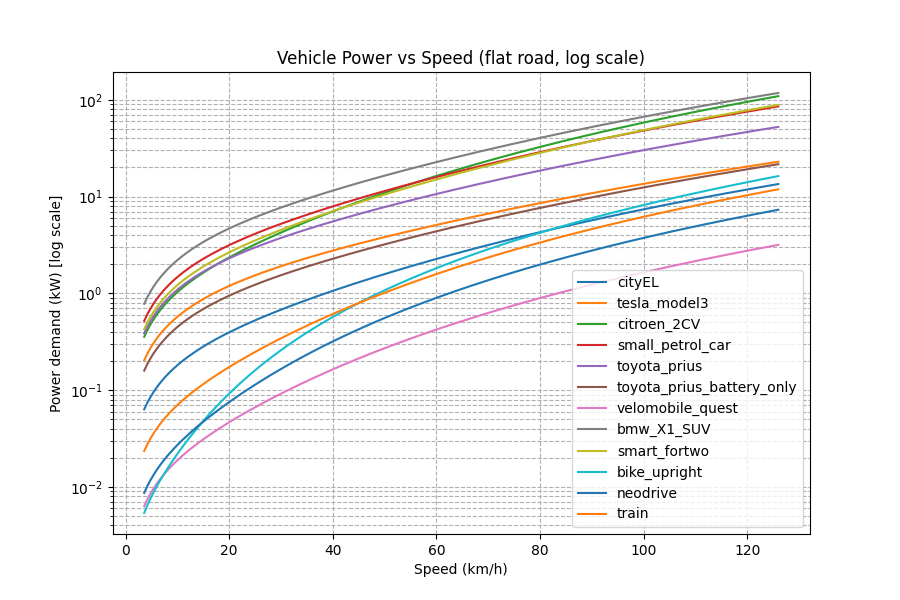
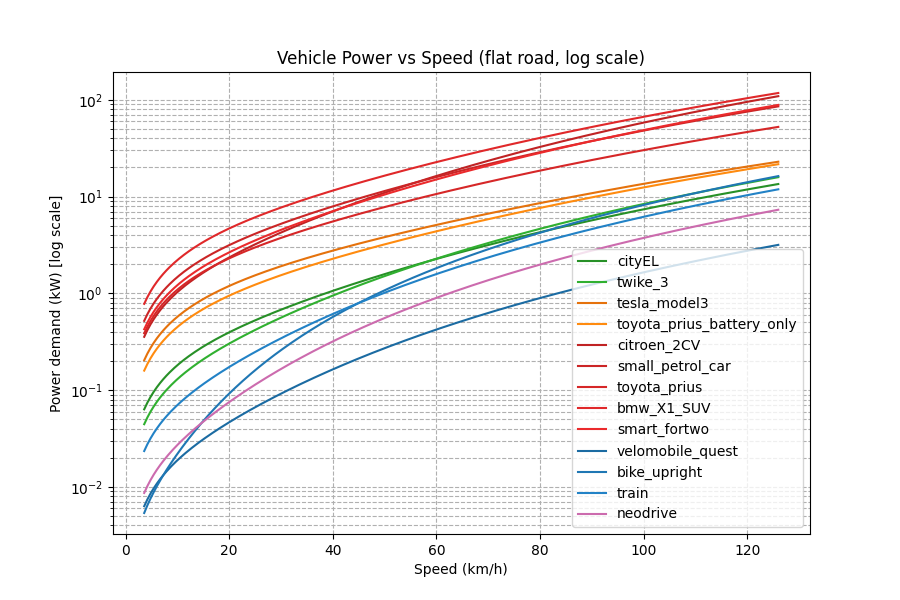
added color codding by group on graphs

diff --git a/plotEfficiency.py b/plotEfficiency.py
@@ -8,36 +8,61 @@ g = 9.81      # earth gravity
 # Speed range
 v = np.linspace(1, 35, 400)  # m/s (avoid 0 to prevent division by zero)
 
-# Vehicle parameters
+# Vehicles dictionary with base group colors
 vehicles = {
-    "cityEL": {"Cd": 0.30, "A": 1.0, "Crr": 0.015, "m": 300, "eta": 0.7},
-    "tesla_model3": {"Cd": 0.23, "A": 2.22, "Crr": 0.010, "m": 1760, "eta": 0.85},
-    "citroen_2CV": {"Cd": 0.51, "A": 1.8, "Crr": 0.015, "m": 600, "eta": 0.25},
-    "small_petrol_car": {"Cd": 0.32, "A": 2.0, "Crr": 0.012, "m": 1100, "eta": 0.25},
-    "toyota_prius": {"Cd": 0.24, "A": 2.16, "Crr": 0.010, "m": 1375, "eta": 0.35},
-    "toyota_prius_battery_only": {"Cd": 0.24, "A": 2.16, "Crr": 0.010, "m": 1375, "eta": 0.85},
-    "velomobile_quest": {"Cd": 0.20, "A": 0.55, "Crr": 0.005, "m": 125, "eta": 0.98},
-    "bmw_X1_SUV": {"Cd": 0.33, "A": 2.6, "Crr": 0.012, "m": 1650, "eta": 0.25},
-    "smart_fortwo": {"Cd": 0.35, "A": 2.0, "Crr": 0.012, "m": 900, "eta": 0.25},
-    "bike_upright": {"Cd": 1.00, "A": 0.6, "Crr": 0.005, "m": 100, "eta": 0.98},
-    "neodrive": {"Cd": 0.2, "A": 1, "Crr": 0.005, "m": 130, "eta": 0.75},
-    "train": {"Cd": 1, "A": 0.4, "Crr": 0.0003, "m": 7500, "eta": 0.95}
+    "cityEL": {"Cd": 0.30, "A": 1.0, "Crr": 0.015, "m": 300, "eta": 0.7, "base_color":"#2ca02c"},  # green
+    "twike_3": {"Cd": 0.325, "A": 1.34, "Crr": 0.012, "m": 300, "eta": 0.80, "base_color":"#2ca02c"},
+    "tesla_model3": {"Cd": 0.23, "A": 2.22, "Crr": 0.010, "m": 1760, "eta": 0.85, "base_color":"#ff7f0e"},  # orange
+    "toyota_prius_battery_only": {"Cd": 0.24, "A": 2.16, "Crr": 0.010, "m": 1375, "eta": 0.85, "base_color":"#ff7f0e"},
+    "citroen_2CV": {"Cd": 0.51, "A": 1.8, "Crr": 0.015, "m": 600, "eta": 0.25, "base_color":"#d62728"},  # red
+    "small_petrol_car": {"Cd": 0.32, "A": 2.0, "Crr": 0.012, "m": 1100, "eta": 0.25, "base_color":"#d62728"},
+    "toyota_prius": {"Cd": 0.24, "A": 2.16, "Crr": 0.010, "m": 1375, "eta": 0.35, "base_color":"#d62728"},
+    "bmw_X1_SUV": {"Cd": 0.33, "A": 2.6, "Crr": 0.012, "m": 1650, "eta": 0.25, "base_color":"#d62728"},
+    "smart_fortwo": {"Cd": 0.35, "A": 2.0, "Crr": 0.012, "m": 900, "eta": 0.25, "base_color":"#d62728"},
+    "velomobile_quest": {"Cd": 0.20, "A": 0.55, "Crr": 0.005, "m": 125, "eta": 0.98, "base_color":"#1f77b4"},  # blue
+    "bike_upright": {"Cd": 1.00, "A": 0.6, "Crr": 0.005, "m": 100, "eta": 0.98, "base_color":"#1f77b4"},
+    "train": {"Cd": 1, "A": 0.4, "Crr": 0.0003, "m": 7500, "eta": 0.95, "base_color":"#1f77b4"},
+    "neodrive": {"Cd": 0.2, "A": 1, "Crr": 0.005, "m": 130, "eta": 0.75, "base_color":"#e377c2"}   # pink
 }
+
+def adjust_color(hex_color, factor=1.0):
+    """Slightly adjust brightness of a hex color"""
+    hex_color = hex_color.lstrip('#')
+    rgb = [int(hex_color[i:i+2], 16) for i in (0, 2, 4)]
+    rgb = [max(0, min(255, int(c * factor))) for c in rgb]
+    return '#%02x%02x%02x' % tuple(rgb)
+
+def assign_unique_colors(vehicles):
+    """Assign unique shades for vehicles sharing the same base color"""
+    # group vehicles by base_color
+    base_groups = {}
+    for name, params in vehicles.items():
+        base = params["base_color"]
+        if base not in base_groups:
+            base_groups[base] = []
+        base_groups[base].append(name)
+
+    # assign shades
+    for base, names in base_groups.items():
+        for i, name in enumerate(names):
+            # spread factors around 1.0 (lighter/darker)
+            factor = 0.9 + 0.2 * (i / max(1, len(names)-1))
+            vehicles[name]["color"] = adjust_color(base, factor)
+
+assign_unique_colors(vehicles)
 
 
 def plot_consumption_vs_speed(vehicles, v):
-    """Plot consumption (kWh/100km) vs speed"""
     plt.figure(figsize=(9,6))
     for name, params in vehicles.items():
         F_roll = params["Crr"] * params["m"] * g
         F_aero = 0.5 * rho * params["Cd"] * params["A"] * v**2
         F_total = F_roll + F_aero
-        P_wheel = F_total * v  # W
+        P_wheel = F_total * v
         P_batt = P_wheel / params["eta"]
         E_per_m = P_batt / v
         kWh_per_100km = E_per_m * 100000 / 3.6e6
-        plt.plot(v*3.6, kWh_per_100km, label=name)
-
+        plt.plot(v*3.6, kWh_per_100km, label=name, color=params["color"])
     plt.xlabel("Speed (km/h)")
     plt.ylabel("Consumption (kWh/100 km) [log scale]")
     plt.title("Vehicle Consumption vs Speed (log scale)")
@@ -57,7 +82,7 @@ def plot_power_vs_speed(vehicles, v):
         F_total = F_roll + F_aero
         P_wheel = F_total * v  # W
         P_batt = P_wheel / params["eta"]
-        plt.plot(v*3.6, P_batt/1000, label=name)  # kW
+        plt.plot(v*3.6, P_batt/1000, label=name, color=params["color"])  # kW
 
     plt.xlabel("Speed (km/h)")
     plt.ylabel("Power demand (kW) [log scale]")
@@ -79,7 +104,7 @@ def plot_power_vs_speed_slope(vehicles, v, slope_fraction, filename):
         F_total = F_roll + F_aero + F_slope
         P_wheel = F_total * v  # W
         P_batt = P_wheel / params["eta"]
-        plt.plot(v*3.6, P_batt/1000, label=name)  # kW
+        plt.plot(v*3.6, P_batt/1000, label=name, color=params["color"])  # kW
 
     plt.xlabel("Speed (km/h)")
     plt.ylabel("Power demand (kW) [log scale]")
@@ -103,7 +128,7 @@ def plot_power_vs_acceleration(vehicles, v, acc, filename):
         P_wheel = F_total * v  # W
         P_batt = P_wheel / params["eta"]
         plt.plot(v*3.6, P_batt/1000,
-                 label=f"{name}, {acc:.1f} g")
+                 label=f"{name}, {acc:.1f} g", color=params["color"])
 
     plt.xlabel("Speed (km/h)")
     plt.ylabel("Power demand (kW) [log scale]")
